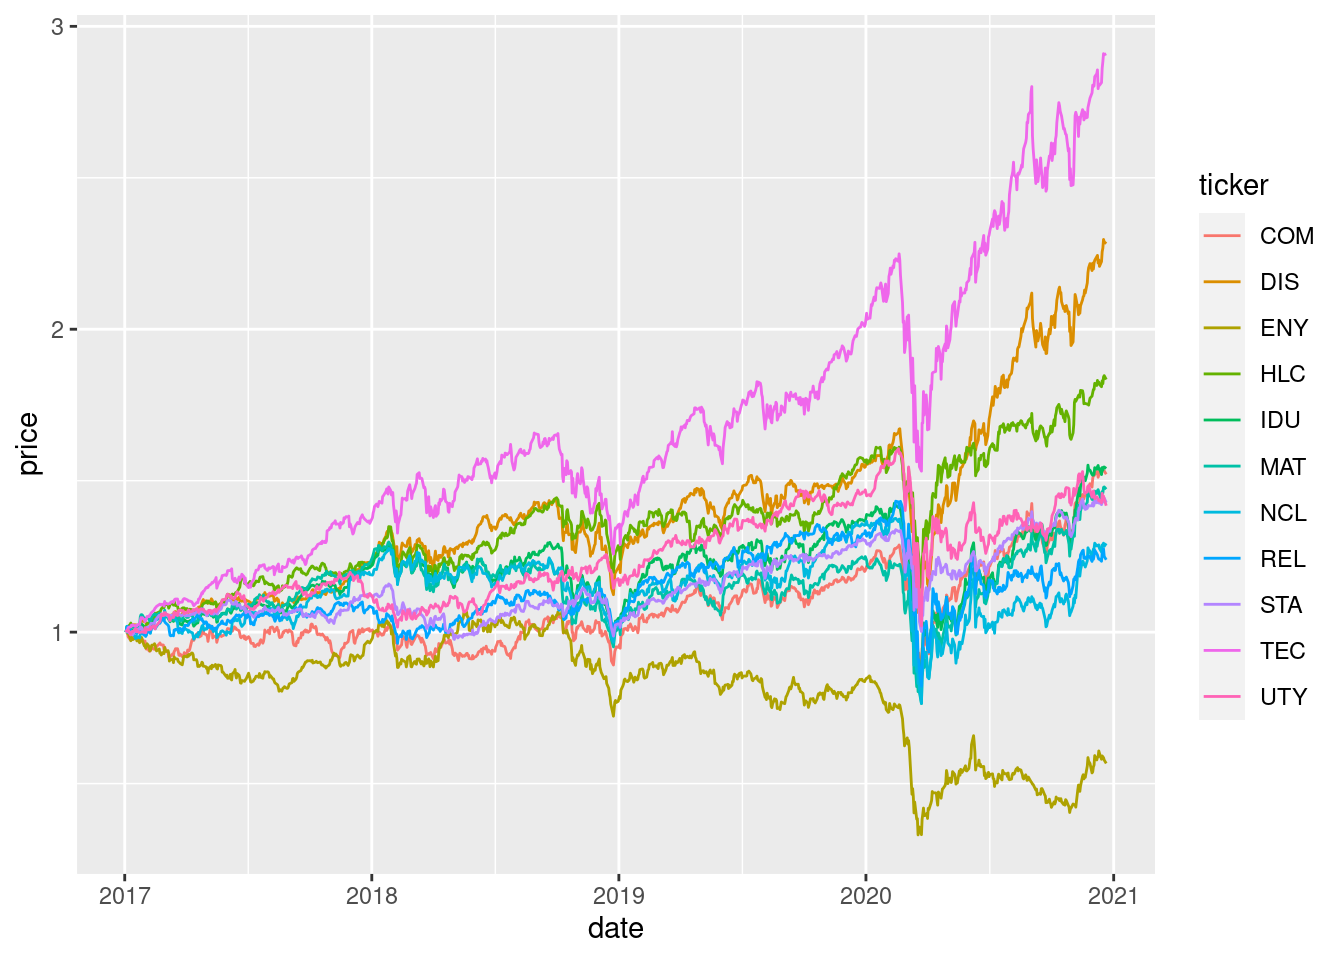
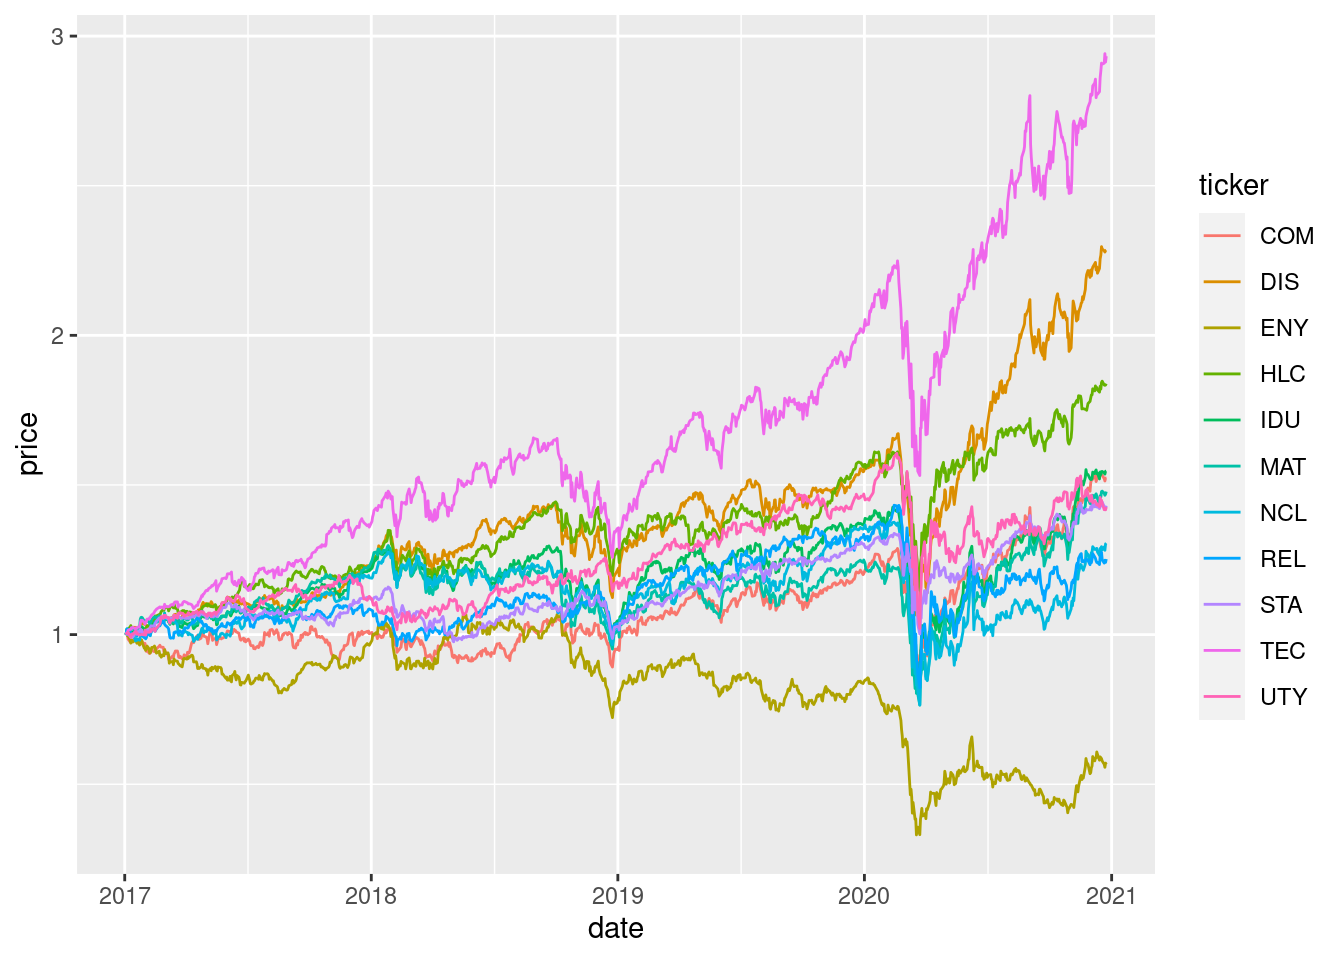
2020-12-27

diff --git a/_site/sectors.html b/_site/sectors.html
@@ -377,112 +377,112 @@ $(document).ready(function () {
 <tr class="odd">
 <td align="left">Energy</td>
 <td align="left">ENY</td>
-<td align="right">8.9</td>
-<td align="right">22.4</td>
-<td align="right">1.8</td>
-<td align="right">-32.1</td>
-<td align="right">-24.8</td>
-<td align="right">-40.8</td>
+<td align="right">-3.4</td>
+<td align="right">29.2</td>
+<td align="right">7.6</td>
+<td align="right">-32.8</td>
+<td align="right">-21.7</td>
+<td align="right">-41.0</td>
 </tr>
 <tr class="even">
 <td align="left">Materials</td>
 <td align="left">MAT</td>
-<td align="right">4.0</td>
-<td align="right">16.6</td>
-<td align="right">30.4</td>
-<td align="right">18.8</td>
-<td align="right">51.0</td>
-<td align="right">20.7</td>
+<td align="right">0.9</td>
+<td align="right">19.5</td>
+<td align="right">34.7</td>
+<td align="right">18.7</td>
+<td align="right">55.3</td>
+<td align="right">20.8</td>
 </tr>
 <tr class="odd">
 <td align="left">Industrials</td>
 <td align="left">IDU</td>
-<td align="right">2.7</td>
-<td align="right">18.6</td>
-<td align="right">30.6</td>
-<td align="right">12.6</td>
-<td align="right">52.9</td>
-<td align="right">27.3</td>
+<td align="right">-0.3</td>
+<td align="right">20.1</td>
+<td align="right">35.9</td>
+<td align="right">12.9</td>
+<td align="right">58.1</td>
+<td align="right">27.8</td>
 </tr>
 <tr class="even">
 <td align="left">Utilities</td>
 <td align="left">UTY</td>
-<td align="right">-2.9</td>
-<td align="right">7.7</td>
-<td align="right">7.9</td>
-<td align="right">-3.5</td>
-<td align="right">18.6</td>
-<td align="right">26.6</td>
+<td align="right">-3.7</td>
+<td align="right">8.1</td>
+<td align="right">10.7</td>
+<td align="right">-2.0</td>
+<td align="right">24.6</td>
+<td align="right">27.3</td>
 </tr>
 <tr class="odd">
 <td align="left">Health Care</td>
 <td align="left">HLC</td>
-<td align="right">4.5</td>
-<td align="right">11.6</td>
-<td align="right">15.8</td>
-<td align="right">16.7</td>
-<td align="right">49.8</td>
-<td align="right">49.8</td>
+<td align="right">4.9</td>
+<td align="right">13.9</td>
+<td align="right">18.6</td>
+<td align="right">16.6</td>
+<td align="right">53.5</td>
+<td align="right">50.4</td>
 </tr>
 <tr class="even">
 <td align="left">Financials</td>
 <td align="left">NCL</td>
-<td align="right">6.4</td>
-<td align="right">23.1</td>
-<td align="right">23.2</td>
-<td align="right">-4.4</td>
-<td align="right">31.0</td>
-<td align="right">7.8</td>
+<td align="right">2.1</td>
+<td align="right">28.0</td>
+<td align="right">28.6</td>
+<td align="right">-3.4</td>
+<td align="right">35.1</td>
+<td align="right">9.1</td>
 </tr>
 <tr class="odd">
 <td align="left">Consumer Discretionary</td>
 <td align="left">DIS</td>
-<td align="right">7.7</td>
-<td align="right">18.1</td>
-<td align="right">36.3</td>
-<td align="right">48.7</td>
-<td align="right">99.2</td>
-<td align="right">85.5</td>
+<td align="right">4.5</td>
+<td align="right">19.0</td>
+<td align="right">38.5</td>
+<td align="right">48.8</td>
+<td align="right">103.4</td>
+<td align="right">86.2</td>
 </tr>
 <tr class="even">
 <td align="left">Consumer Staples</td>
 <td align="left">STA</td>
-<td align="right">1.6</td>
-<td align="right">7.9</td>
-<td align="right">16.3</td>
-<td align="right">9.4</td>
-<td align="right">40.8</td>
-<td align="right">27.4</td>
+<td align="right">0.8</td>
+<td align="right">8.4</td>
+<td align="right">18.6</td>
+<td align="right">9.9</td>
+<td align="right">45.0</td>
+<td align="right">27.7</td>
 </tr>
 <tr class="odd">
 <td align="left">Information Technology</td>
 <td align="left">TEC</td>
-<td align="right">7.9</td>
-<td align="right">16.8</td>
-<td align="right">26.8</td>
-<td align="right">45.4</td>
-<td align="right">125.3</td>
-<td align="right">111.7</td>
+<td align="right">7.4</td>
+<td align="right">19.1</td>
+<td align="right">30.0</td>
+<td align="right">46.1</td>
+<td align="right">133.2</td>
+<td align="right">113.7</td>
 </tr>
 <tr class="even">
 <td align="left">Communication Services</td>
 <td align="left">COM</td>
-<td align="right">4.9</td>
-<td align="right">19.1</td>
-<td align="right">24.3</td>
-<td align="right">25.8</td>
-<td align="right">68.1</td>
-<td align="right">51.0</td>
+<td align="right">2.8</td>
+<td align="right">20.2</td>
+<td align="right">26.7</td>
+<td align="right">26.2</td>
+<td align="right">70.8</td>
+<td align="right">51.3</td>
 </tr>
 <tr class="odd">
 <td align="left">Real Estate</td>
 <td align="left">REL</td>
-<td align="right">-0.3</td>
-<td align="right">9.2</td>
-<td align="right">7.1</td>
-<td align="right">-6.0</td>
-<td align="right">19.9</td>
-<td align="right">16.5</td>
+<td align="right">0.0</td>
+<td align="right">12.0</td>
+<td align="right">11.8</td>
+<td align="right">-4.6</td>
+<td align="right">25.7</td>
+<td align="right">17.0</td>
 </tr>
 </tbody>
 </table>
